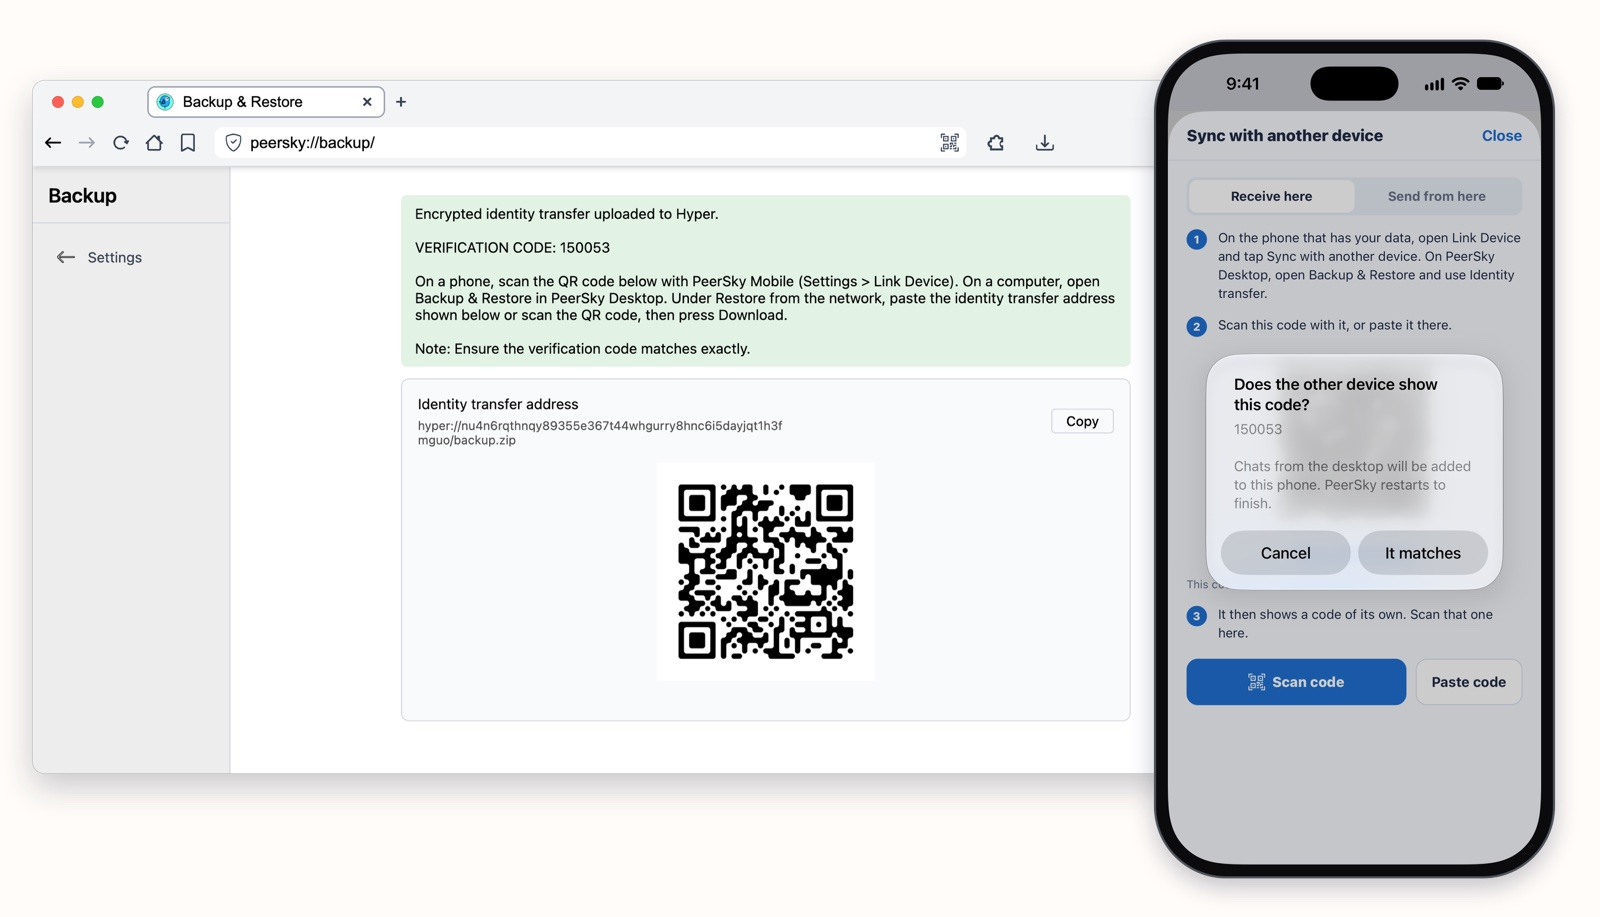
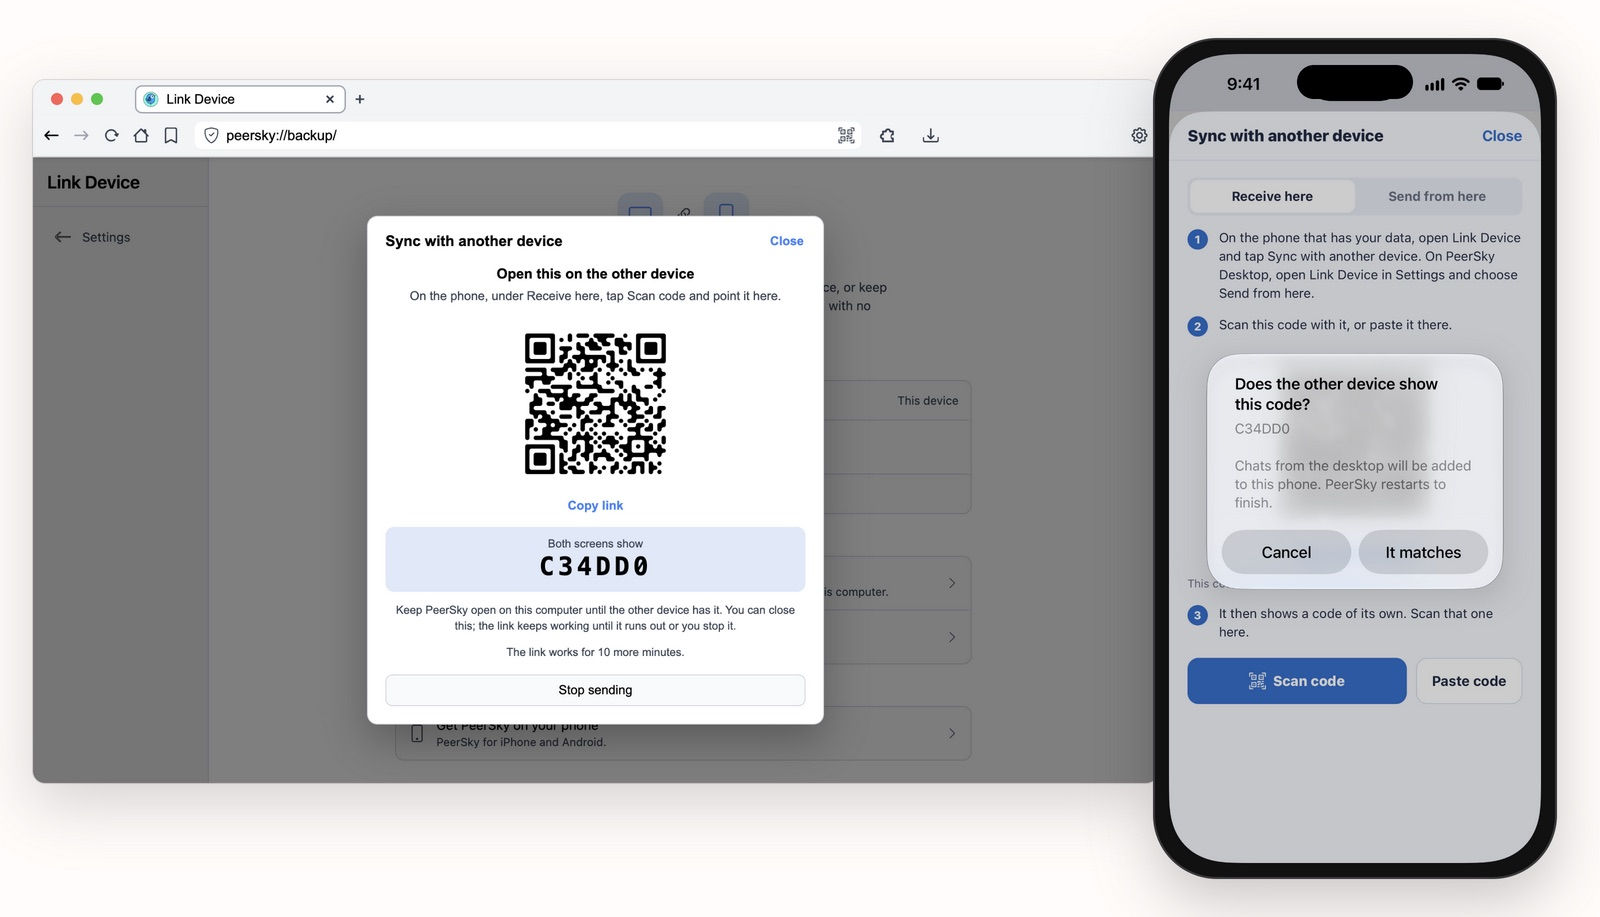
feat: the private cloud post links devices with Link Device on the desktop too, with a new picture of both screens showing the same code

diff --git a/blog/spare-device-private-cloud/index.html b/blog/spare-device-private-cloud/index.html
@@ -53,9 +53,9 @@
         <p>You need PeerSky on both devices. Get it for your computer and your phone at <a href="../../#downloads">peersky.p2plabs.xyz</a>.</p>
 
         <h2>1. Link your devices</h2>
-        <p>On your phone, open Settings, then Link Device, then Sync with another device. It shows a code. On the spare laptop, open Backup &amp; Restore, scan that code under Identity transfer and press Upload Hyper. Scan the code the laptop shows back with your phone. When both screens show the same six digits, tap It matches.</p>
+        <p>On your phone, open Settings, then Link Device, then Sync with another device. It shows a code. On the spare laptop, open Settings, then Link Device, then Sync with another device, and choose Send from here. Paste or scan the phone's code there and press Send. Scan the code the laptop shows back with your phone. When both screens show the same six characters, tap It matches.</p>
         <figure>
-          <img src="./link.jpg" width="1600" height="917" loading="lazy" alt="PeerSky Desktop's Backup &amp; Restore page and a phone's Link Device screen, both showing the code 150053" />
+          <img src="./link.jpg" width="1600" height="917" loading="lazy" alt="Link Device on PeerSky Desktop sending to a phone, and Link Device on the phone, both showing the code C34DD0" />
           <figcaption>Both screens show the same code before anything moves.</figcaption>
         </figure>
         <p>Now both devices hold the same key, and nobody else has it.</p>
@@ -119,7 +119,7 @@
         <h2>How safe is it?</h2>
         <p>Think of a safe that only opens with a key your devices made together, and that nobody else ever saw. Here's what keeps each part locked:</p>
         <ul>
-          <li><strong>Linking:</strong> the key moves once, when you link, over an encrypted connection, and only after both screens show the same six digits. That check stops anyone from slipping their own device in between.</li>
+          <li><strong>Linking:</strong> the key moves once, when you link, over an encrypted connection, and only after both screens show the same six characters. That check stops anyone from slipping their own device in between.</li>
           <li><strong>On the way:</strong> your devices talk over an encrypted connection, and the file inside it is encrypted as well, so anyone watching your Wi-Fi or the internet sees only scrambled data.</li>
           <li><strong>On each device:</strong> files are saved encrypted, and the key that opens them is locked by your system's own safe storage: the Keychain on a Mac or iPhone, the Android Keystore, Windows' own protection on a PC, and the keyring on Linux, when it has one. You're never asked for a password. It opens only for you, on that device, while you're logged in. Someone who copies PeerSky's folder off your laptop gets encrypted files and a key they can't open.</li>
           <li><strong>Your file names too:</strong> the list of your private files, and of what's on your other devices, is locked the same way, so nobody can read "passport-scan.jpg" off your disk either.</li>
